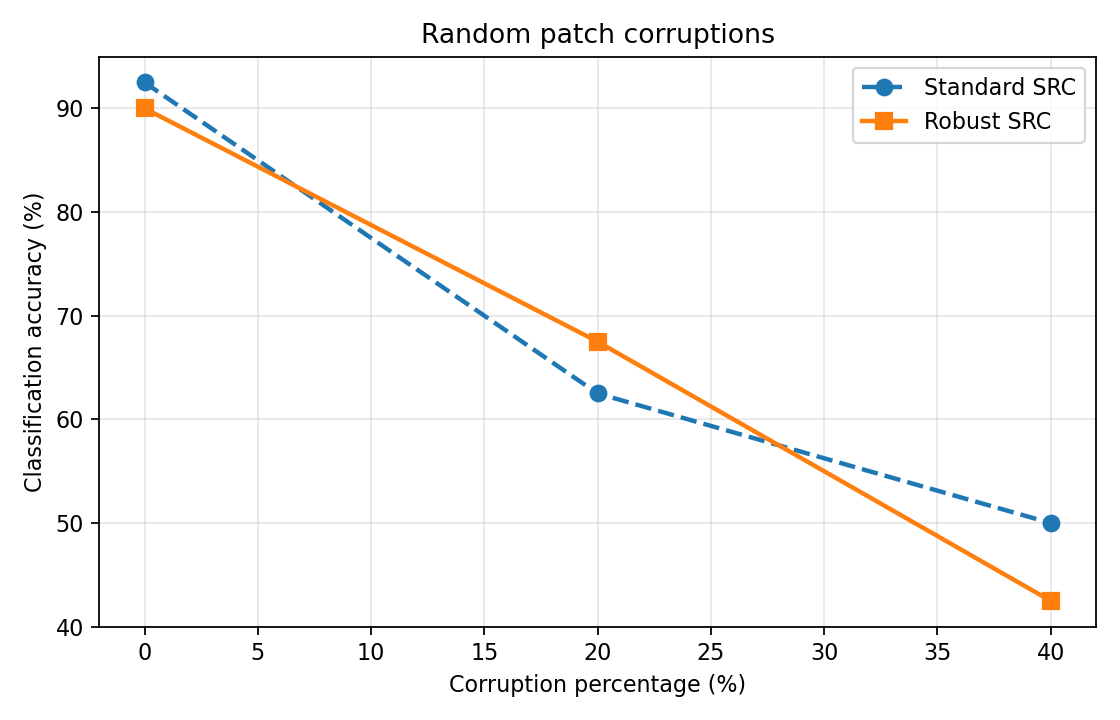
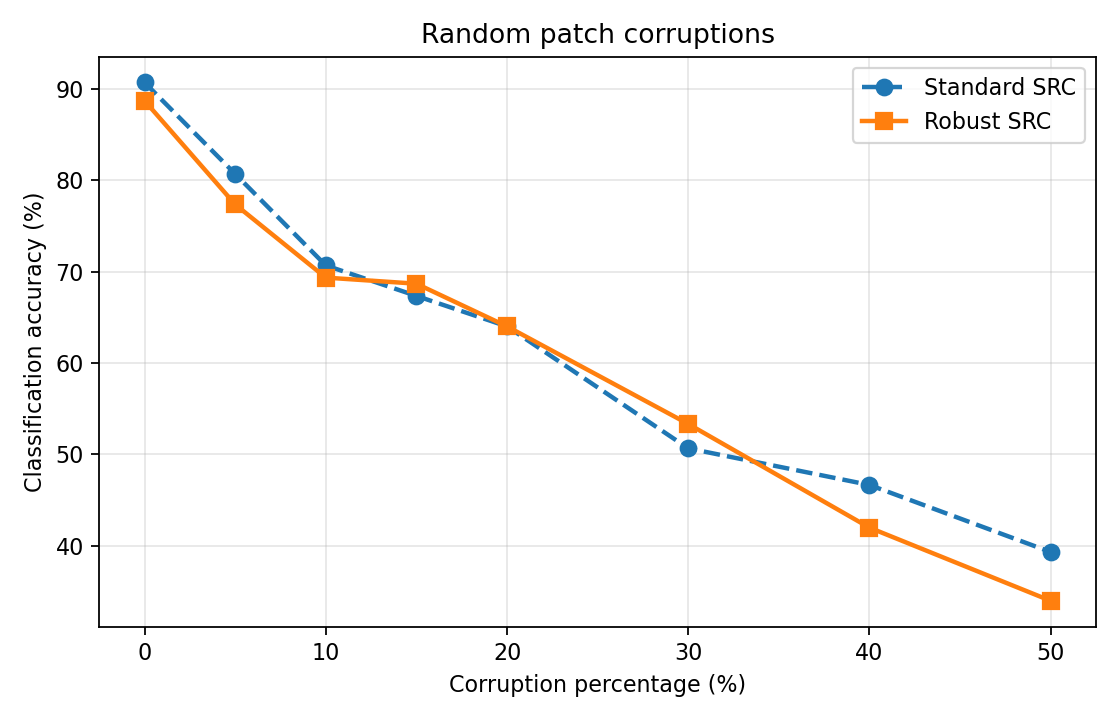
update results for Assignment_6

diff --git a/Assignment_6/assignment_6_report.md b/Assignment_6/assignment_6_report.md
@@ -63,16 +63,17 @@ Classify from \(\alpha\) using the same SRC residual rule.
 
 ### Results
 
+Evaluated on **150** test images; corruption levels 0–50% (`robust_outlier_results.csv`).
+
 ![Random pixel corruption](accuracy_vs_corruption_pixel.png)
 
 ![Random patch corruption](accuracy_vs_corruption_patch.png)
 
 ### Observations
 
-- **Pixels:** both methods degrade gradually; performance is similar.
-- **Patches:** more harmful; robust SRC can beat standard SRC at moderate \(p\) (explicit \(e\) models localized outliers).
-- **High \(p\):** both collapse when corruption dominates the signal.
-- Robust SRC is ~4–5× slower per image.
+- **Pixels:** similar at low \(p\); robust SRC wins at **30%** (82.0% vs 77.3%) and **50%** (57.3% vs 52.7%).
+- **Patches:** much harsher; methods tie near **20%** (64%); both collapse by **50%** (~35–39%).
+- Robust SRC is ~2–3× slower per image in this run.
 
 ```bash
 python Assignment_6/assignment_6_issue2_robust_outliers.py
